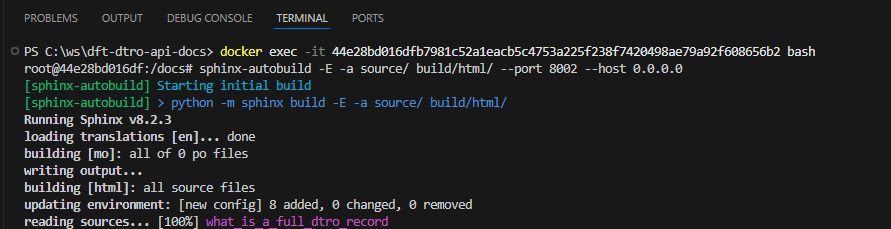
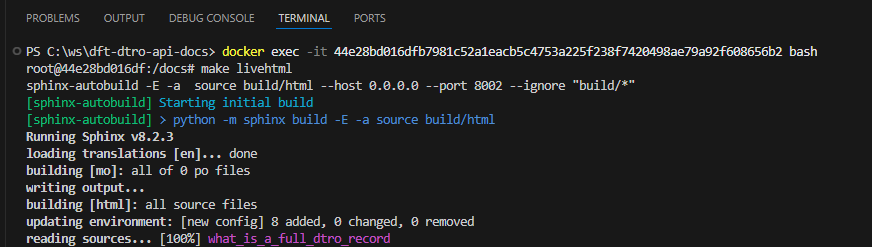
wip

Changed region(s): [[0.0, 0.1834, 0.9599, 1.0], [0.0, 0.0306, 0.4644, 0.1528]]

diff --git a/README.md b/README.md
@@ -47,23 +47,6 @@ Steps for running the documentation locally using Docker:
 
 ¹ Make sure the port number matches the container id.
 
-## Making changes to the data model user guide
-
-1. Make changes to `.rst` and images files in folder `data-model-user-guide\source`.
-2. If you have to insert another figure, be aware that references to labels such as the following will auto-increment (so you don't need to increment any numbers in the labels themselves - the labels just need to be unique):
-```
-:numref:`fig8`
-.. _fig8:
-```
-3. Once you've finished making changes, run the following:
-```
-./scripts/build.sh
-```
-See more on this script below.
-
-4. View the changes locally at e.g. `http://127.0.0.1:8002/`.
-5. Commit and push your changes - they will automatically be published to https://d-tro.dft.gov.uk/ via the job at https://github.com/pa-digital/dft-dtro-api-docs/actions
-
 ## Documentation Building
 
 The helper script `scripts/build.sh` is provided to automate the build process. Note that the Docker containers need to be running for this script to work. This script does the following:
@@ -101,10 +84,41 @@ h. In a new terminal window e.g. in VS Code, run the following command, replacin
 ```
 docker exec -it <container ID> bash
 ```
-i. In the container command prompt run `sphinx-autobuild -E -a source/ build/html/ --port 8002 --host 0.0.0.0`:
+i. In the container command prompt run `make livehtml`:
 ![Container prompt](readme-images/container-prompt.png)
 
 j. Navigate to `http://127.0.0.1:8002` to view the user guide locally.
 
 3. Make changes to the data model user guide:
-a. 
+a. In VS Code explorer, expand `data-model-user-guide`, right-click on `source` and select `Find in Folder...`:
+![Find in folder](readme-images/find-in-folder.png)
+
+NOTE: Only update `.rst` files and images within `data-model-user-guide/source` - other documentation files in other folders are automatically generated from this source folder.
+
+b. Search for text near where you want to make changes to the text:
+![Search for text](readme-images/search-for-text.png)
+
+NOTE: You can't always copy text from the browser and expect to find that text via `Find in Folder`. This is because formatting is applied. So, for example, you'll need to search on "provides the UML class representation of the &#96;&#96;source&#96;&#96;" rather than "provides the UML class representation of the source".
+
+c. If applicable, copy existing text with the desired formatting and use in your new text.
+
+NOTE: If you have to insert another figure, be aware that references to labels such as the following will auto-increment (so you don't need to increment any numbers in the labels themselves - the label references just need to be unique):
+```
+:numref:`fig8`
+.. _fig8:
+```
+
+d. Replace, or add to, images in `data-model-user-guide/source/_static/images`.
+e. Refresh your browser open at `http://127.0.0.1:8002` to review the changes you've made.
+
+4. Pushing your changes for external review (once you're happy with the changes you've made):
+a. In a new terminal window e.g. in VS Code, run `./scripts/build.sh` (soon you won't have to do this).
+b. Stage, commit and push your changes (if you're using a terminal e.g. in VS Code, you can run e.g. `git commit -am "Update data model user guide for schema version 3.6.0"`, followed by `git push --set-upstream origin update-data-model-user-guide-for-360`.)
+c. In your browser navigate to `https://github.com/pa-digital/dft-dtro-api-docs` and click the green `Compare & pull request` button next to your branch name:
+![Compare & pull request button](readme-images/compare-and-pull-request-button.png)
+
+d. Update the title as required and click the green `Create pull request` button:
+![Create pull request](readme-images/create-pull-request.png)
+
+e. Share a link to the pull request with others so they can review it.
+f. Once the pull request has been approved, squash and merge it. After 30 seconds or so, you will see your changes published at `https://d-tro.dft.gov.uk`.
